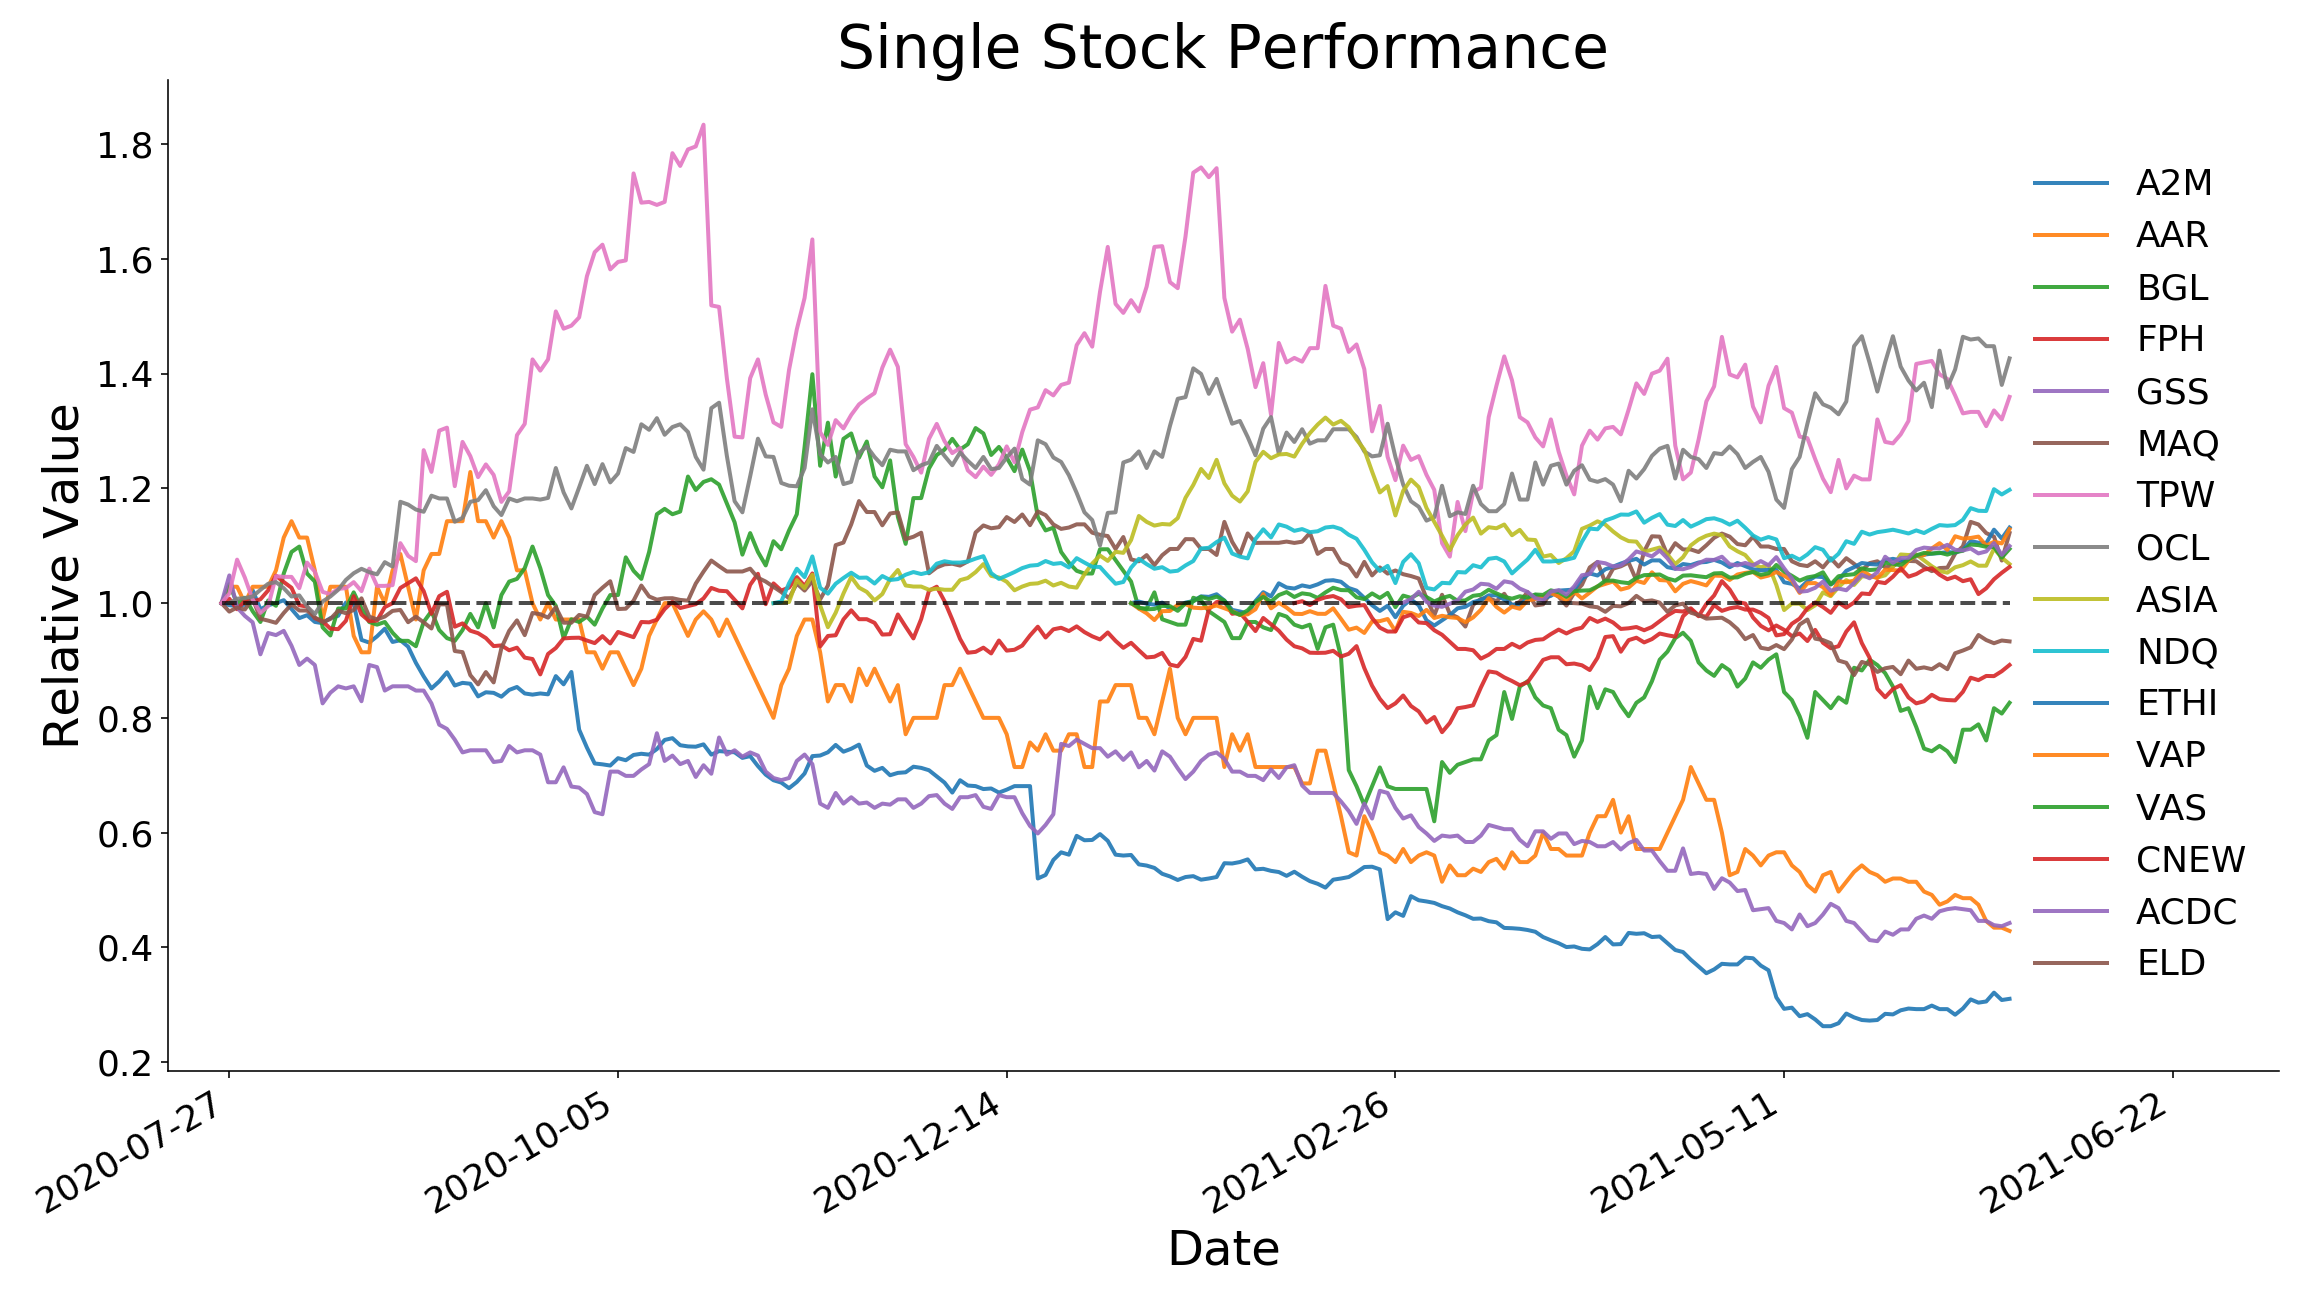
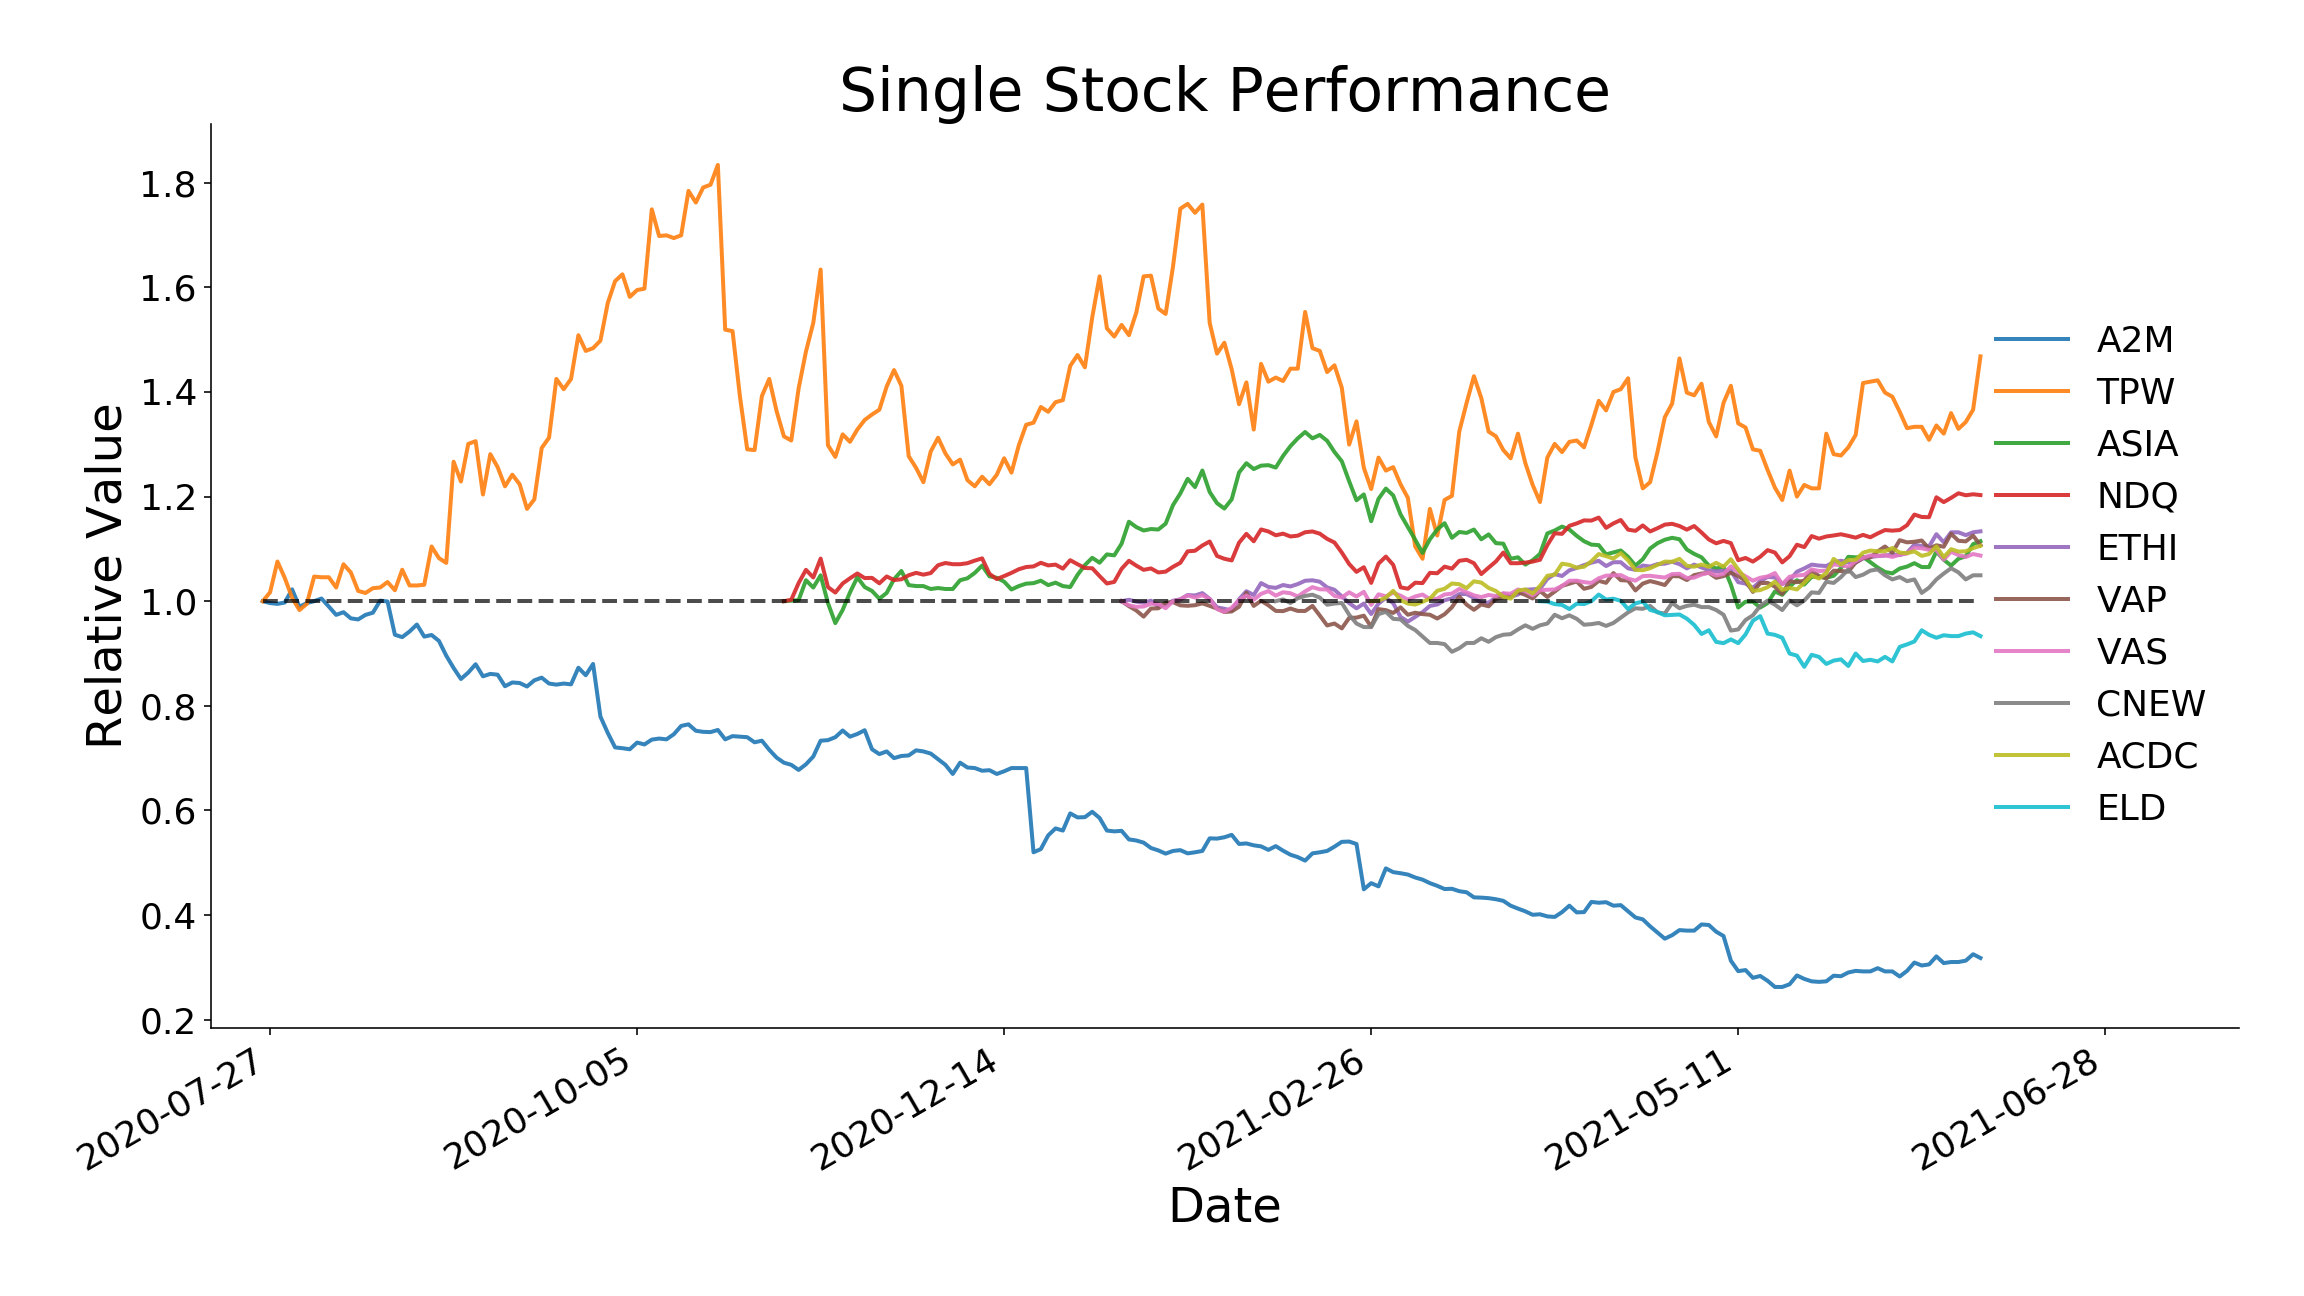
Cemented selling behaviour

diff --git a/siif_utils.py b/siif_utils.py
@@ -69,6 +69,7 @@ class Comp:
         self.name = name
         self.filename = filename
         self.shares, self.cash_flows = self.load_comp()
+        self.curr_shares = [share for share in self.shares if share.sell_date == TOMORROW]
         self.daily = self.load_data()
         self.portfolio_value = self.get_portfolio_value()
         self.returns = self.get_returns()
@@ -183,7 +184,7 @@ class Comp:
         data['HPR'] = np.where(data['cash_flow'] != 0, data['cum_HPR'], 1)
         data['cum_return'] = np.cumprod(data['HPR'])
         data['return'] = np.where(data['cash_flow'] == 0,
-                                  data['cum_HPR']*data['cum_return'], data['HPR']) 
+                                  data['cum_HPR']*data['cum_return'], data['cum_return']) 
 
         return data['return']
 
@@ -191,7 +192,7 @@ class Comp:
         return self.__repr__()
         
     def __repr__(self):
-        return f'{self.name}: {self.shares}'
+        return f'{self.name}: {self.curr_shares}'
 
 ################################ Plotting functions ################################
 
@@ -253,7 +254,7 @@ def plot_shares(comp, filename='single_stocks', save=False, scale=1):
     start = comp.daily[comp.daily.any(1)].index[0]
     start_ind = comp.daily.index.to_list().index(start)
     
-    for share in comp.shares:
+    for share in comp.curr_shares:
         tmp = comp.daily.reset_index(drop=True)
         held = tmp[tmp[share.code] > 0]
         x = np.arange(min(held.index)-1, max(held.index)+1)
